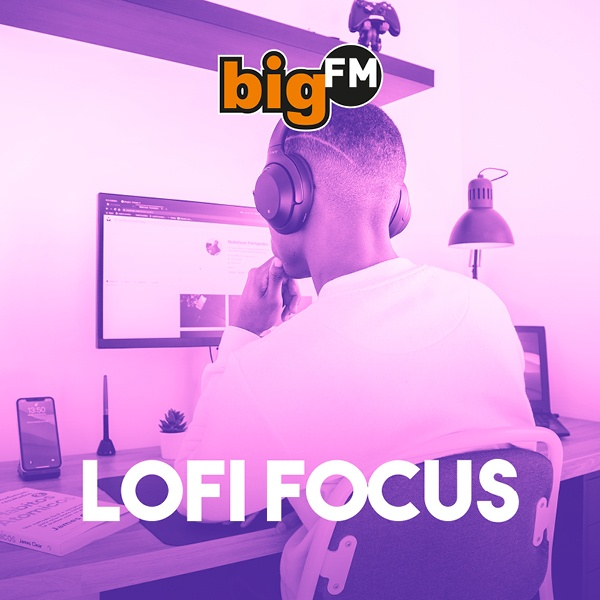
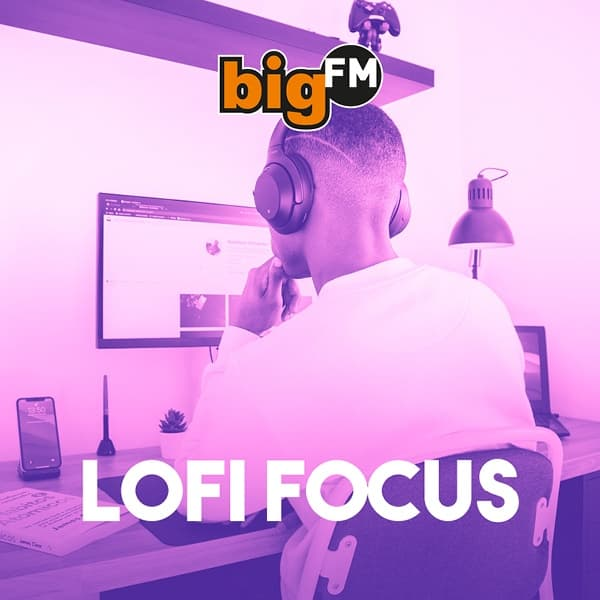
Image size optm.

diff --git a/index.html b/index.html
@@ -127,7 +127,7 @@
             },
             {
                 name: 'Chillsky.com',
-                image: 'Radio-Chillsky.png',
+                image: 'Radio-Chillsky.jpg',
                 infoUrl: 'https://chillsky.com',
                 infoLocation: 'London, United Kingdom',
                 infoFlag: 'gb-eng',
@@ -159,7 +159,7 @@
             },
             {
                 name: '24/7 Lofi Radio',
-                image: 'Radio-247Lofi.jpeg',
+                image: 'Radio-247Lofi.jpg',
                 infoUrl: 'https://www.247lofiradio.com/',
                 infoLocation: 'London, United Kingdom',
                 infoFlag: 'gb-eng',
@@ -167,7 +167,7 @@
             },
             {
                 name: 'Sensual Lounge',
-                image: 'Radio-SensualLounge.png',
+                image: 'Radio-SensualLounge.jpg',
                 infoUrl: 'https://maggie.torontocast.com:2020/public/sensuallounge',
                 infoLocation: 'Toronto, Canada',
                 infoFlag: 'ca',
@@ -175,7 +175,7 @@
             },
             {
                 name: 'Радио Рекорд Lo-Fi',
-                image: 'Radio-RecordLofi.jpeg',
+                image: 'Radio-RecordLofi.jpg',
                 infoUrl: 'https://www.radiorecord.ru/station/lofi',
                 infoLocation: 'St. Petesburg, Russia',
                 infoFlag: 'ru',
@@ -199,7 +199,7 @@
             },
             {
                 name: 'Soma FM Lush',
-                image: 'Radio-SomaLush.png',
+                image: 'Radio-SomaLush.jpg',
                 infoUrl: 'https://somafm.com/lush/',
                 infoLocation: 'San Francisco, CA, United States',
                 infoFlag: 'us-ca',
